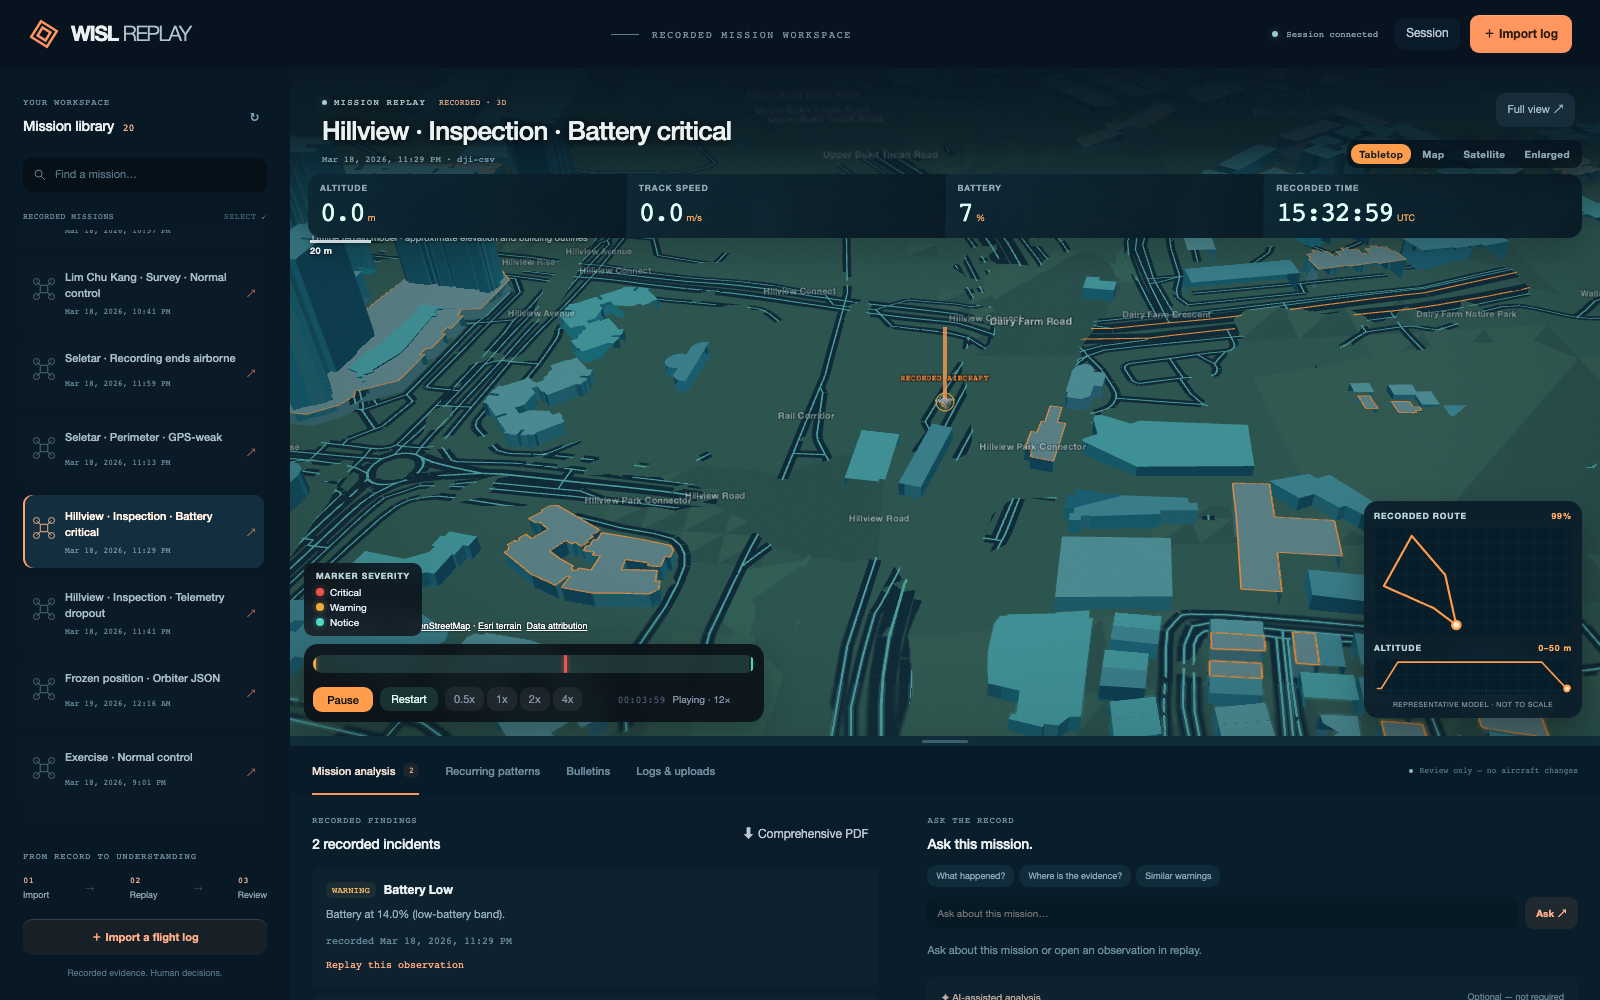
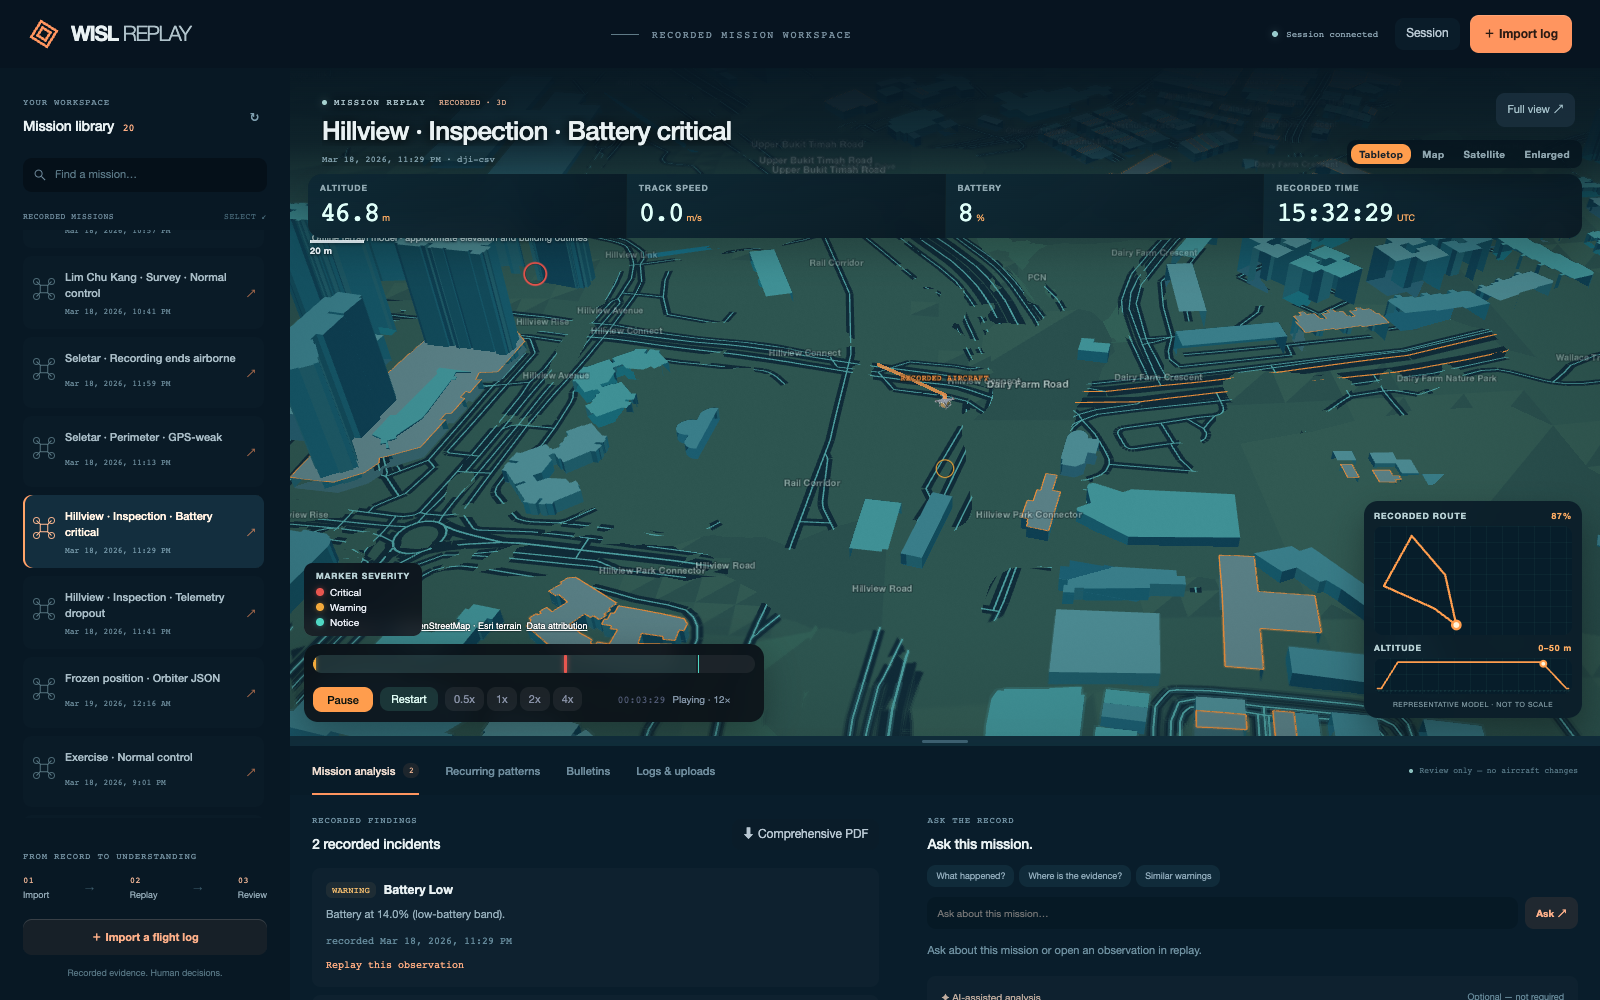
Fix black replay in the console and keep the GPS-weak exercise flight
2026-09-24T23:48:45Z — overlay colour rewrite looped forever because Primitive has no .ready in Cesium 1.125; made the pass idempotent (per-record applied flags, appearance swapped once), bounded the retry, and stopped it on destroy. Re-added dji_csv_gps_jamming.csv to the auto-import list and the sample-log button.

diff --git a/sdth-demo/demo.js b/sdth-demo/demo.js
@@ -8,6 +8,7 @@ const DEMO_LIBRARY_LOGS = [
   { url: "/demo/fixtures/singapore/dji_csv_sg_hillview_inspection_battery_critical.csv", name: "dji_csv_sg_hillview_inspection_battery_critical.csv", type: "text/csv" },
   { url: "/demo/fixtures/singapore/dji_csv_sg_hillview_inspection_dropout.csv", name: "dji_csv_sg_hillview_inspection_dropout.csv", type: "text/csv" },
   { url: "/demo/fixtures/singapore/dji_csv_sg_seletar_ends_airborne.csv", name: "dji_csv_sg_seletar_ends_airborne.csv", type: "text/csv" },
+  { url: "/demo/fixtures/dji_csv_gps_jamming.csv", name: "dji_csv_gps_jamming.csv", type: "text/csv" },
 ];
 const $ = (id) => document.getElementById(id);
 const wideLayout = window.matchMedia("(min-width: 760px)");
@@ -388,7 +389,7 @@ $("missionSearch").addEventListener("input", renderFlights);
 $("sampleButton").addEventListener("click", async () => {
   if (!state.token) { setAuthPanel(true); return; }
   const button = $("sampleButton"); button.disabled = true;
-  try { const response = await fetch("/demo/fixtures/singapore/dji_csv_sg_lck_survey_gps_weak.csv"); if (!response.ok) throw new Error("The included sample could not be loaded."); await uploadFile(new File([await response.blob()], "dji_csv_sg_lck_survey_gps_weak.csv", {type:"text/csv"})); }
+  try { const response = await fetch("/demo/fixtures/dji_csv_gps_jamming.csv"); if (!response.ok) throw new Error("The included sample could not be loaded."); await uploadFile(new File([await response.blob()], "dji_csv_gps_jamming.csv", {type:"text/csv"})); }
   catch (error) { setMessage(friendlyError(error.message), "error"); }
   finally { button.disabled = false; }
 });

diff --git a/sdth-demo/fixtures/README.md b/sdth-demo/fixtures/README.md
@@ -1,6 +1,6 @@
 # Recorded demo fixtures
 
-Auto-imported into the local Mission library on Session connect.
+The six `singapore/` missions plus `dji_csv_gps_jamming.csv` are auto-imported into the local Mission library on Session connect. `dji_csv_gps_jamming.csv` is the one UK flight kept for continuity with the earlier evidence; it lives in the Stonehenge cache region, so it still gets terrain in the replay.
 The GPS-warning and dropout CSVs plus the Orbiter JSON are unchanged copies from the original hazard corpus and V2 Orbiter skin.
 The `Exercise ·` CSVs are the audited V2 failure-plus-control set.
 The two `dji_csv_supplemental_*.csv` files are independent of the original 90-file denominator.
